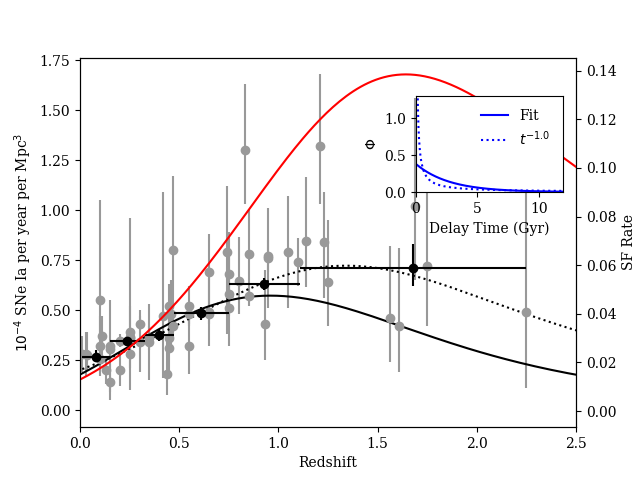
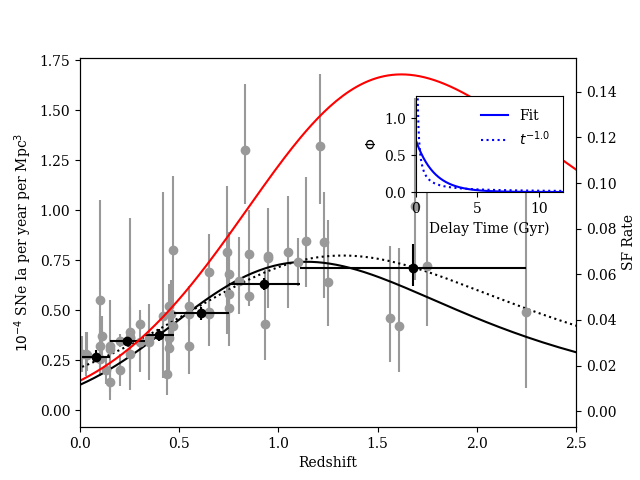
modified:   MCMC_SFD.py 	modified:   demo_dtd_sfd.py 	new file:   eval_dtdmodel_v2.py 	modified:   figure_fit_demo.png 	modified:   figure_fit_demo_werr.png 	modified:   figure_preliminary_sfd_corners.png 	modified:   figure_sfd_corners.png 	modified:   plot_cMCSFD_results.py

diff --git a/analysis/scripts/eval_dtdmodel_v2.py b/analysis/scripts/eval_dtdmodel_v2.py
@@ -1,0 +1,118 @@
+#!/usr/bin/env python
+import os,sys,pdb,scipy,glob,pickle
+from pylab import *
+from strolger_util import util as u
+from strolger_util import rates_z as rz
+from strolger_util import cosmotools as ct
+from scipy.integrate import simps,quad
+from strolger_util import imf
+
+csfh_model = [0.0134, 2.55, 3.3, 6.1]
+
+
+def run_model(tt, *p):
+    ddt = average(diff(tt))
+    sfh = rz.csfh_time(tt, *csfh_model)
+    dtd = rz.dtdfunc(tt, *p[1:])
+    tmp = convolve(sfh, dtd, 'full')*ddt*np.exp(p[0])#*frac*scale ## now convolved result in forward time
+    rate_fn=tmp[:len(dtd)]
+    return(rate_fn)
+
+    
+
+if __name__=='__main__':
+
+    dt = 0.05
+    age=13.6
+    tt = arange(dt,age,dt)
+    p_val = [-2.32, -1845., 52., 220.]
+    p_err = [[0.07, -0.06],
+             [839., -596.],
+             [14., -16.],
+             [191., -186.]
+             ]
+
+    ax = subplot(111)
+    ax2 = axes([0.55, 0.6, 0.33, 0.25])
+    ax2.plot(tt, rz.dtdfunc(tt, *p_val[1:]), 'b-')
+    
+    files = glob.glob('mc_sfd_*.pkl')
+    tot = 0
+    for file in files:
+        samples = pickle.load(open(file,'rb'))
+        samples = samples[:,50:,:].reshape((-1,5))
+        print('adding %d samples from %s... '%(len(samples), file))
+        try:
+            temp = concatenate((temp, samples), axis=0)
+        except:
+            temp = samples
+        
+    tta = linspace(min(tt), max(tt), 300)
+    print('%d total samples' %len(temp))
+    samples = temp
+    print(samples)
+    ndraws = 11
+    draws  = samples[np.random.randint(0, len(samples), ndraws),:]
+    ysample = asarray([rz.dtdfunc(tta, *pi[1:-1]) for pi in draws])
+
+
+    lower = percentile(ysample, 15.9, axis=0)
+    upper = percentile(ysample, 84.1, axis=0)
+    ax2.fill_between(tta, upper, lower, color='green', alpha=0.2)
+    lower = percentile(ysample, 2.5, axis=0)
+    upper = percentile(ysample, 97.5, axis=0)
+    ax2.fill_between(tta, upper, lower, color='green', alpha=0.2)
+
+    pwrl=(-1.,1.)
+    ax2.plot(tt,rz.powerdtd(tt, *pwrl), 'b:', label=r'$t^{%.1f}$'%(pwrl[0]))
+
+    
+    ax2.set_xlim(0,12)
+    ax2.set_ylim(0,0.8)
+
+    frac = 0.062
+    
+    rates = loadtxt('SNeIa_rates.txt')
+    rates[:,1:] = rates[:,1:]#*1.0e-4 ## put on the right scale
+    rates = rates[:,:4]
+    brates = u.gimme_rebinned_data(rates,splits=arange(0,1.167,0.167).tolist())
+    scale_k = quad(imf.salpeter,3,8)[0]/quad(imf.salpeter1,0.1,125)[0]
+    scale = scale_k * 0.7**2.*1e4## factors of h...
+    lbt = age - tta
+    zz = [ct.cosmoz(x, ho=70) for x in lbt]
+
+
+    ax.errorbar(rates[:,0], rates[:,1], yerr=[rates[:,3],rates[:,2]], fmt='o', color='0.6', alpha=0.4)
+    ax.errorbar(brates[:,0], brates[:,1], yerr=[brates[:,3],brates[:,2]],
+                xerr=[brates[:,5],brates[:,4]], fmt='o', color='0.0',zorder=10)
+
+    ysample = asarray([run_model(tta, *pi[:-1]) for pi in draws])*scale
+        
+
+    ax.plot(zz, run_model(tta, *p_val)*scale, 'b-')
+    lower = percentile(ysample, 15.9, axis=0)
+    upper = percentile(ysample, 84.1, axis=0)
+    ax.fill_between(zz, upper, lower, color='green', alpha=0.2)
+    lower = percentile(ysample, 2.5, axis=0)
+    upper = percentile(ysample, 97.5, axis=0)
+    ax.fill_between(zz, upper, lower, color='green', alpha=0.2)
+
+
+    pwrl = (-1.0,1.0)
+    dud = rz.powerdtd(tta, *pwrl)
+    jdud = convolve(rz.csfh_time(tta, *csfh_model), dud, 'full')*average(diff(tta))*frac*scale
+    jdud = jdud[:len(dud)]
+    ax.plot(zz, jdud, 'b:')
+    ## pdb.set_trace()
+
+    ax.set_xlim(0,2.5)
+
+    ax.set_xlabel('Redshift')
+    ax.set_ylabel(r'$10^{-4}$ SNe Ia per year per Mpc$^3$')
+    ax2.set_ylabel('$\Phi$')
+    ax2.set_xlabel('Delay Time (Gyr)')
+    ax.set_title(r'$k=%.4f\,M_{\odot}^{-1},\,\,\varepsilon=%2.1f\%%$' %(scale_k, np.exp(p_val[0])*100))
+    savefig('figure_fit_demo_werr.png', transparent=True)
+
+
+

diff --git a/analysis/scripts/plot_cMCSFD_results.py b/analysis/scripts/plot_cMCSFD_results.py
@@ -19,7 +19,7 @@ if __name__=='__main__':
     for file in files:
         samples = pickle.load(open(file,'rb'))
         ## samples = samples.reshape((-1,5))
-        samples = samples[:,50:,:].reshape((-1,5))
+        samples = samples[:,500:,:].reshape((-1,5))
         print('adding %d samples from %s... '%(len(samples), file))
         try:
             temp = concatenate((temp, samples), axis=0)
@@ -52,9 +52,9 @@ if __name__=='__main__':
     print('k=%2.2f, %2.2f, %2.2f' %(k_mcmc[0], k_mcmc[1], k_mcmc[2]))
     print('lnf=%2.2f, %2.2f, %2.2f' %(lnf_mcmc[0], lnf_mcmc[1], lnf_mcmc[2]))
 
-    parameters = [r'$\varepsilon$',r'$\xi$',r'$\omega$',r'$\alpha$', r'$\log f$']
+    parameters = [r'$\log\varepsilon$',r'$\xi$',r'$\omega$',r'$\alpha$', r'$\log f$']
     c = chc()
-    c.add_chain(samples, parameters=parameters, walkers=100, name='Unimodal Model')
+    c.add_chain(samples, parameters=parameters, walkers=1000, name='Unimodal Model')
 
     ## table1 = c.analysis.get_latex_table(caption="Results for the tested model", label="tab:example")
     ## print(table1)
@@ -81,8 +81,8 @@ if __name__=='__main__':
 
     c.configure(label_font_size=18, contour_labels='sigma')
     fig = c.plotter.plot(figsize="column",
-                         truth={r'$\varepsilon$':ff_mcmc[0], 
-                                r'$\xi$': m_mcmc[0], r'$\omega$': 65., r'$\alpha$': k_mcmc[0],
+                         truth={r'$\log\varepsilon$':ff_mcmc[0], 
+                                r'$\xi$': md0, r'$\omega$': md1, r'$\alpha$': k_mcmc[0],
                                 r'$\log f$':md3},
                          ## extents = [[-0.2, 0.4], [-1900.,-200.0], [10., 90], [50., 500],[-4.2,0]]
                          ## extents = [[-0.2, 0.4], [-1900.,200.0], [-0.1, 90], [-200., 500],[-4.2,0.1]]

diff --git a/analysis/scripts/demo_dtd_sfd.py b/analysis/scripts/demo_dtd_sfd.py
@@ -69,7 +69,7 @@ if __name__=='__main__':
     ## p0 = (0.05, 3.5, 0.5, 2.2)
     ## p0 = (0.065, 0.1, 50., 0.1)
 
-    p0 = (0.058, -1056, 53.57, 195.8)
+    p0 = (0.058, -1845, 52.4, 17)
     rates = loadtxt('SNeIa_rates.txt')
     rates[:,1:] = rates[:,1:]#*1.0e-4 ## put on the right scale
     rates = rates[:,:4]

diff --git a/analysis/scripts/MCMC_SFD.py b/analysis/scripts/MCMC_SFD.py
@@ -74,7 +74,7 @@ if __name__=='__main__':
     import time
     import multiprocessing as mpc
     ncore = mpc.cpu_count()
-    ndim, nwalkers, nsteps = 5, 100, 2000
+    ndim, nwalkers, nsteps = 5, 1000, 2000
     step_size = 1.0
     ## p0 = (0.05, 3.5, 2.5, 2.5, 0.01)
     ## p0 = (0.06, -100., 50, 20, -2.5)
